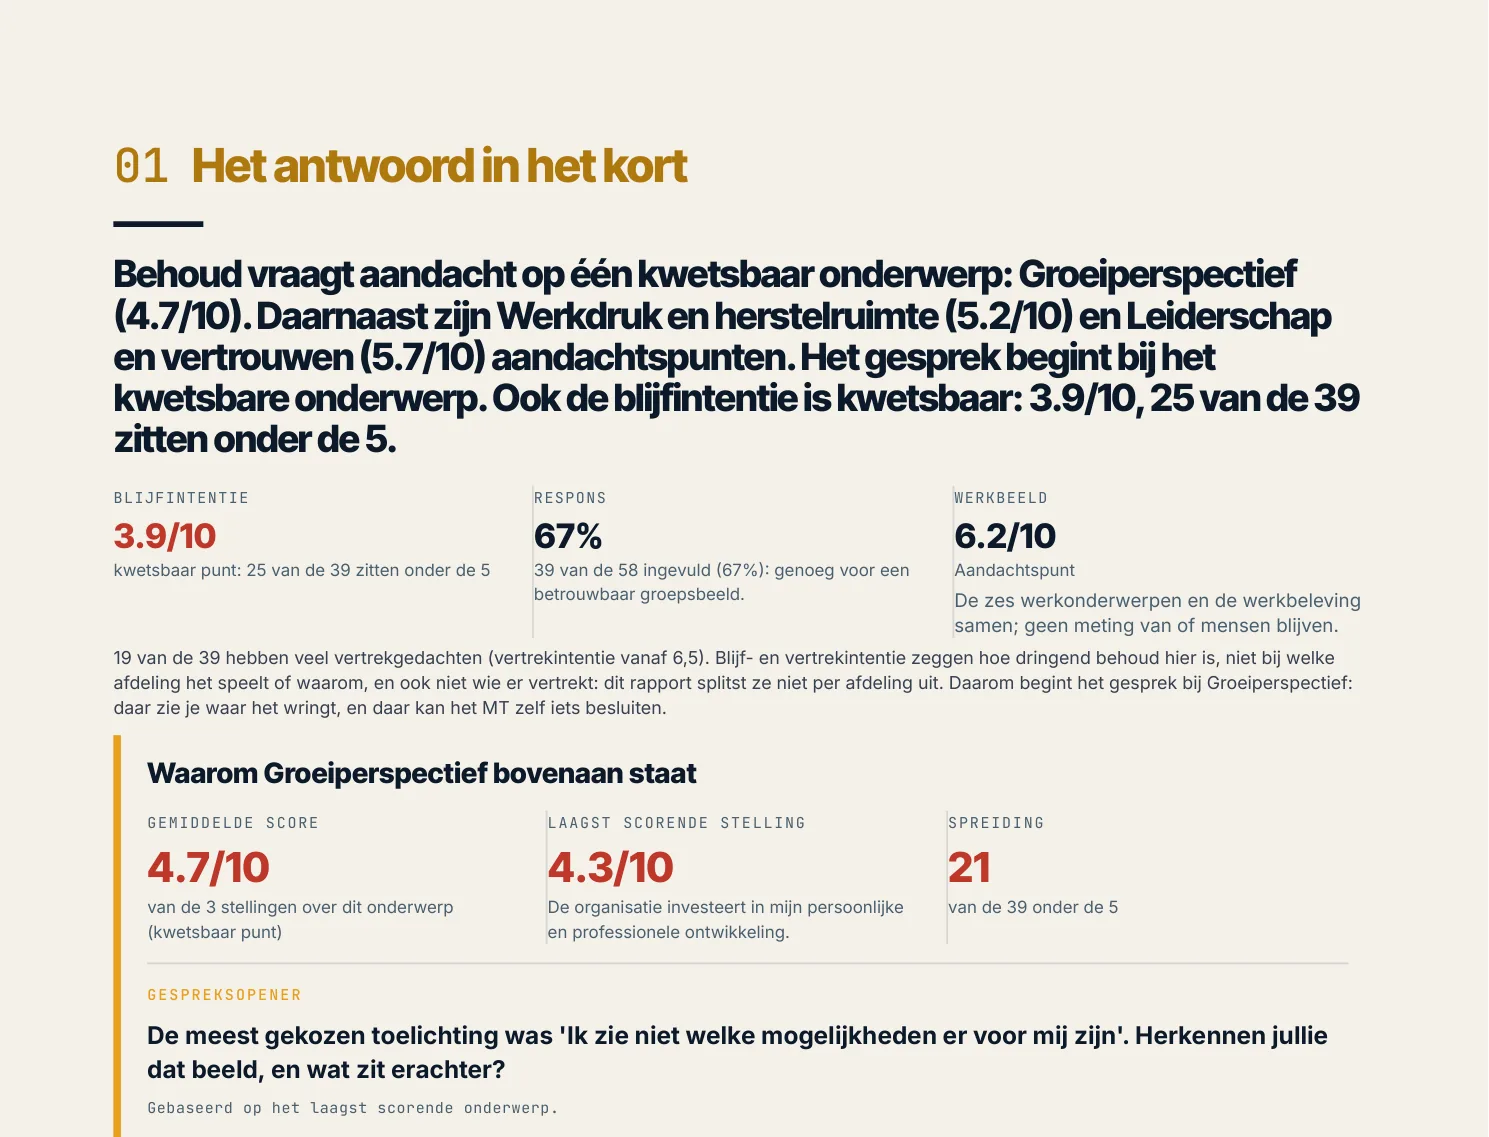
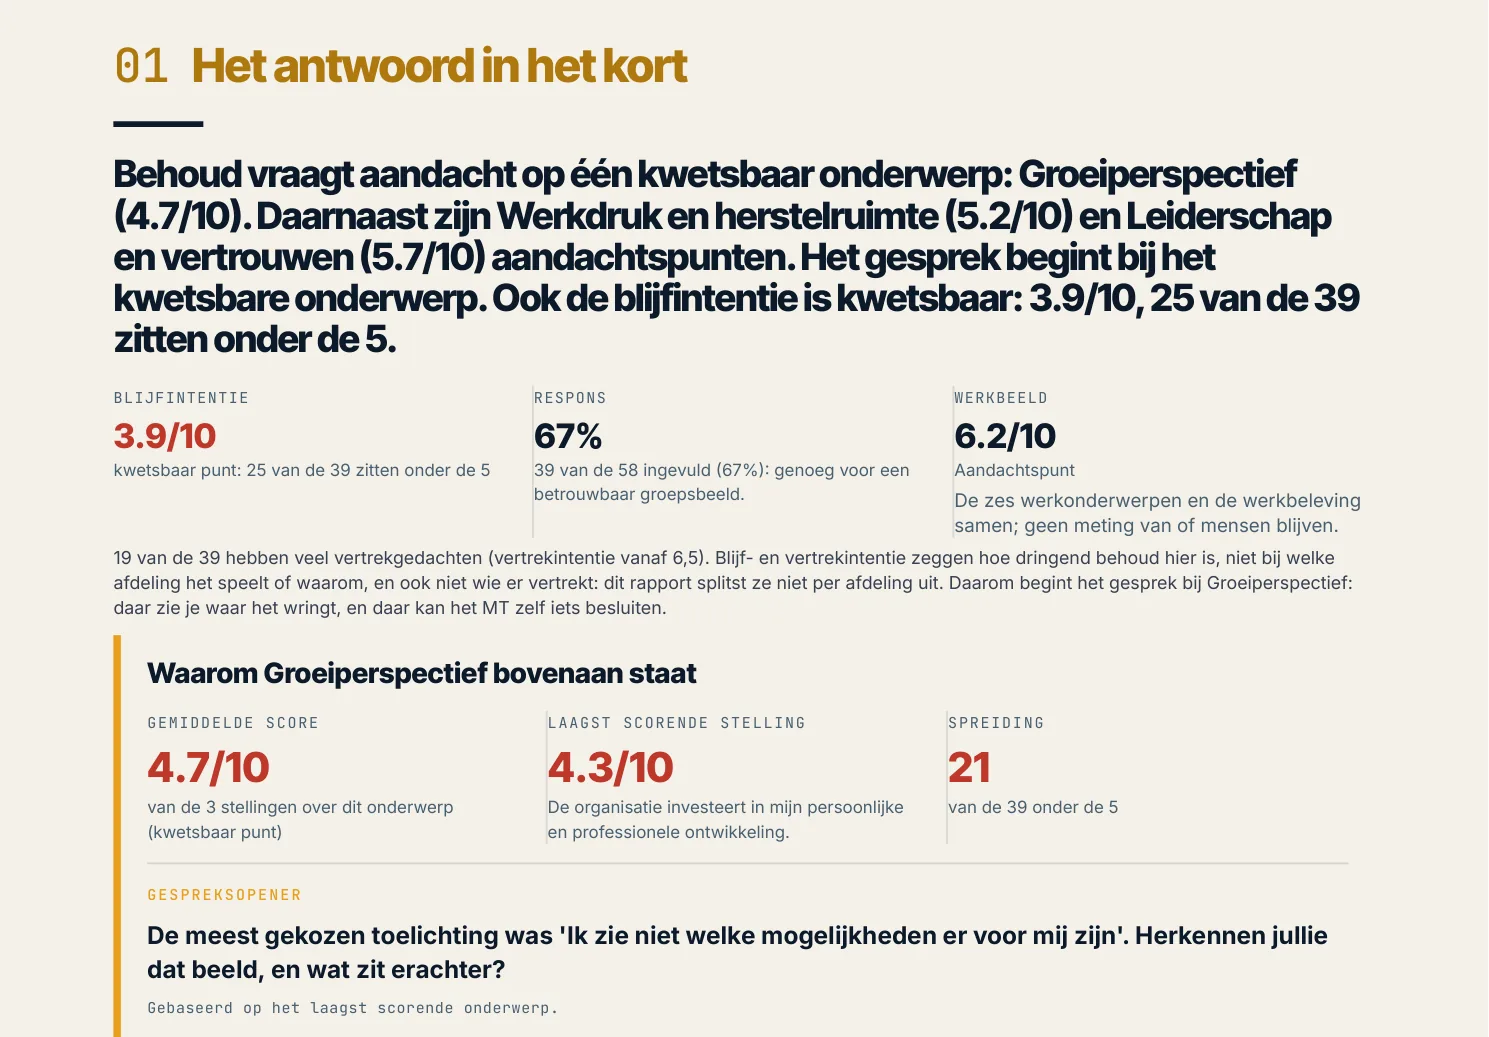
fix(homepage): reviewpunten taak 13b, strakkere knip met Fail Loud, invultijd per scan, kaart 2 goedgekeurde tekst
- scripts/render_hero_p02.py: lege bovenmarge eraf (knip vanaf 40 pt),
  stopt met foutcode en melding op stderr als een tekstblok door de
  boven- of onderknip loopt, als de factor buiten 0,45 tot 0,6 valt of
  als Pillow/WebP ontbreekt (geen stille PNG-terugval); document wordt
  gesloten. Opnieuw gerenderd in het productie-image: 1489x1037 WebP,
  124.824 bytes.
- Hero: width/height 1489x1037, sizes "(max-width: 520px) 100vw,
  480px", label "Voorbeeld" aria-hidden (alt begint er al mee) en
  rechtsboven, omdat de knip nu direct bij de paginakop begint en het
  label linksboven die kop afdekte.
- Invultijd: exit, retention en onboarding expliciet uit SURVEY_MINUTES;
  ontbreekt er een, dan gooit de pagina een fout in plaats van een
  verkeerd bereik.
- Kaart 2: goedgekeurde tekst (39 woorden).

Tests: homepage-polijstronde.test.ts leest de exacte src uit de bron en
controleert precies dat bestand, bewaakt de SuitePreviewSection-grens en
eist de import plus het gebruik van de invultijd in de kaarttekst.
Lockstep aangepast: frontend/lib/homepage-besluit-a.test.ts (vastgepinde
zin van kaart 2 naar de goedgekeurde tekst, commentaar mee).

Changed region(s): [[0.0618, 0.0309, 0.9268, 0.9875]]

diff --git a/frontend/components/marketing/home-page-content.tsx b/frontend/components/marketing/home-page-content.tsx
@@ -117,7 +117,16 @@ const problemSignalPoints = [
 
 // Invultijd uit dezelfde bron als de vragenlijst zelf (SURVEY_MINUTES), zodat de
 // homepage niet iets anders belooft dan de respondent leest.
-const surveyMinutes = Object.values(SURVEY_MINUTES).filter((m): m is number => typeof m === 'number')
+// De drie scans die de homepage aanbiedt worden expliciet genoemd: ontbreekt er
+// een, dan faalt de pagina zichtbaar in plaats van een verkeerd bereik te tonen.
+function surveyMinutesFor(scan: 'exit' | 'retention' | 'onboarding'): number {
+  const minutes = SURVEY_MINUTES[scan]
+  if (typeof minutes !== 'number') {
+    throw new Error(`SURVEY_MINUTES mist de invultijd voor ${scan}`)
+  }
+  return minutes
+}
+const surveyMinutes = [surveyMinutesFor('exit'), surveyMinutesFor('retention'), surveyMinutesFor('onboarding')]
 const minSurveyMinutes = Math.min(...surveyMinutes)
 const maxSurveyMinutes = Math.max(...surveyMinutes)
 
@@ -132,7 +141,7 @@ const managementFlowSteps = [
     step: '2',
     label: 'Begrijpen',
     title: 'Loep levert een rapport met een antwoord',
-    body: 'Een rapport dat laat zien wat laag scoort en waar je begint. Bij Loep Vertrek en Loep Behoud komt daar één ranglijst bij, dit eerst en waarom, plus wat je mensen zelf als reden kozen en wat er volgens hen moet gebeuren.',
+    body: 'Een rapport dat laat zien wat laag scoort en waar je begint. Bij Loep Vertrek en Loep Behoud zie je ook waarom iets bovenaan staat, wat je mensen zelf als reden kozen en wat er volgens hen moet gebeuren.',
   },
   {
     step: '3',
@@ -868,22 +877,25 @@ function HeroSection() {
                     src="/images/voorbeeld-loep-behoud-p02.webp"
                     alt="Voorbeeld van pagina twee uit een Loep Behoud-rapport: de kernzin, het werkbeeld en de cijfers over blijven en vertrekken."
                     width={1489}
-                    height={1137}
-                    sizes="(max-width: 1120px) 100vw, 480px"
+                    height={1037}
+                    sizes="(max-width: 520px) 100vw, 480px"
                     priority
                     style={{ width: '100%', height: 'auto', display: 'block' }}
                   />
+                  {/* Rechtsboven: de afbeelding begint direct bij de paginakop, die
+                      links staat; rechts naast de kop is het vlak leeg. */}
                   <span
+                    aria-hidden
                     style={{
                       background: '#0d1b2a',
                       color: '#f4ece0',
                       fontFamily: bodyFont,
                       fontSize: 10,
                       fontWeight: 700,
-                      left: 0,
                       letterSpacing: '.18em',
                       padding: '7px 11px',
                       position: 'absolute',
+                      right: 0,
                       textTransform: 'uppercase',
                       top: 0,
                     }}

diff --git a/frontend/lib/homepage-polijstronde.test.ts b/frontend/lib/homepage-polijstronde.test.ts
@@ -3,9 +3,16 @@ import { join } from 'node:path'
 import { describe, expect, it } from 'vitest'
 
 const bron = readFileSync(join(__dirname, '..', 'components', 'marketing', 'home-page-content.tsx'), 'utf8')
-const live = bron.slice(0, bron.indexOf('function SuitePreviewSection'))
+const grens = bron.indexOf('function SuitePreviewSection')
+const live = bron.slice(0, grens)
 
 describe('homepage polijstronde (spec par. 7)', () => {
+  it('meet het live deel van de homepage, niet een lege of volledige bron', () => {
+    // Verdwijnt het gearchiveerde blok, dan zou slice(0, -1) stilletjes bijna
+    // alles meten; dan moet deze test de grens opnieuw kiezen.
+    expect(grens).toBeGreaterThan(0)
+  })
+
   it('hero zegt niets meer wat het rapport niet zegt', () => {
     for (const oud of ['veruit het laagst', 'Eerste managementvraag', 'Waardering en erkenning', 'Illustratief voorbeeld']) {
       expect(live).not.toContain(oud)
@@ -13,19 +20,23 @@ describe('homepage polijstronde (spec par. 7)', () => {
   })
 
   it('hero toont de echte rapportafbeelding met label en alt-tekst', () => {
-    expect(live).toContain('/images/voorbeeld-loep-behoud-p02.')
+    const src = live.match(/src="(\/images\/voorbeeld-loep-behoud-p02\.[a-z]+)"/)?.[1]
+    expect(src).toBeTruthy()
     expect(live).toContain('Voorbeeld van pagina twee uit een Loep Behoud-rapport')
     expect(live).toMatch(/>\s*Voorbeeld\s*</)
-    const pad = join(__dirname, '..', 'public', 'images')
-    const bestand = ['voorbeeld-loep-behoud-p02.webp', 'voorbeeld-loep-behoud-p02.png']
-      .map((n) => join(pad, n)).find((p) => { try { return statSync(p).isFile() } catch { return false } })
-    expect(bestand).toBeTruthy()
-    expect(statSync(bestand!).size).toBeLessThan(250 * 1024)
+    // Precies het bestand dat de component laadt, niet een van twee mogelijke.
+    const bestand = join(__dirname, '..', 'public', ...src!.split('/').filter(Boolean))
+    expect(statSync(bestand).isFile()).toBe(true)
+    expect(statSync(bestand).size).toBeLessThan(250 * 1024)
   })
 
   it('invultijd komt uit SURVEY_MINUTES, niet uit vaste tekst', () => {
     expect(live).not.toContain('tien minuten')
-    expect(live).toContain('SURVEY_MINUTES')
+    expect(live).toContain("import { SURVEY_MINUTES } from '@/lib/campaign-setup'")
+    for (const scan of ['exit', 'retention', 'onboarding']) {
+      expect(live).toContain(`surveyMinutesFor('${scan}')`)
+    }
+    expect(live).toContain('in ${minSurveyMinutes} tot ${maxSurveyMinutes} minuten ingevuld')
   })
 
   it('kaartteksten rond 40 woorden', () => {

diff --git a/frontend/lib/homepage-besluit-a.test.ts b/frontend/lib/homepage-besluit-a.test.ts
@@ -48,9 +48,9 @@ describe('homepage na besluit A', () => {
     // Loep Start mist het prioriteringsraster: daar is de rangorde puur de
     // score (backend/report_html.py), dus "je ziet waarom dit bovenaan staat"
     // is voor Loep Start niet waar. Sinds de polijstronde (Taak 13b) hangt de
-    // homepagekaart de ranglijst met het waarom daarom aan de twee scans met
-    // een raster; voor elke scan belooft hij alleen wat laag scoort en waar je begint.
-    expect(bron()).toContain('Bij Loep Vertrek en Loep Behoud komt daar één ranglijst bij, dit eerst en waarom,')
+    // homepagekaart het waarom daarom aan de twee scans met een raster; voor
+    // elke scan belooft hij alleen wat laag scoort en waar je begint.
+    expect(bron()).toContain('Bij Loep Vertrek en Loep Behoud zie je ook waarom iets bovenaan staat,')
     // De ontkenningen dekken ook SuitePreviewSection en suiteFlowPoints. Die
     // staan wel in dit bestand maar hangen niet in de renderboom, dus daar
     // wordt bewust geen zin vastgepind: verdwijnt dat dode blok ooit, dan hoort

diff --git a/scripts/render_hero_p02.py b/scripts/render_hero_p02.py
@@ -6,12 +6,17 @@ net als scripts/render_in_image.py: /repo is de read-only gemounte worktree,
 
 Wat het doet:
   1. rendert docs/examples/voorbeeldrapport_retentiescan.html met WeasyPrint;
-  2. knipt de bovenste KNIP_FACTOR van pagina twee (index 1) met PyMuPDF;
+  2. knipt pagina twee (index 1) van KNIP_BOVEN pt tot KNIP_FACTOR van de
+     paginahoogte met PyMuPDF (de lege bovenmarge gaat eraf, zodat de inhoud
+     op de homepage groter staat);
   3. rendert die knip op SCHAAL en schrijft /out/hero_p02.png;
-  4. zet hem om naar /out/hero_p02.webp (kwaliteit 82) als Pillow er is.
+  4. zet hem om naar /out/hero_p02.webp (kwaliteit 82).
 
-De afbeelding verzint niets: alles komt uit de generator. Kies KNIP_FACTOR
-zo dat de knip na een heel blok valt, nooit door een tekstregel heen.
+Fail Loud: het script stopt met een foutcode (en een melding op stderr) als
+de factor buiten het bereik valt, als een tekstblok door de boven- of
+onderknip loopt, of als Pillow of WebP-ondersteuning ontbreekt. Een half
+afgesneden regel of een stille PNG-terugval komt zo nooit op de homepage.
+De afbeelding verzint niets: alles komt uit de generator.
 Draaien: zie plan 2026-10-09-polijstronde, Taak 13b.
 """
 from __future__ import annotations
@@ -23,40 +28,66 @@ REPO = Path("/repo")
 OUT = Path("/out")
 BRON = REPO / "docs" / "examples" / "voorbeeldrapport_retentiescan.html"
 
-KNIP_FACTOR = float(sys.argv[1]) if len(sys.argv) > 1 else 0.54
+FACTOR_MIN, FACTOR_MAX = 0.45, 0.6
+KNIP_FACTOR = 0.54  # onderknip als deel van de paginahoogte
+KNIP_BOVEN = 40.0   # pt; de eerste tekst (paginakop) begint rond 53 pt
 SCHAAL = 2.5
 
-import pymupdf  # noqa: E402
-from weasyprint import HTML  # noqa: E402
+
+def _fout(melding: str) -> int:
+    print("FOUT: " + melding, file=sys.stderr)
+    return 1
 
 
 def main() -> int:
+    factor = KNIP_FACTOR
+    if len(sys.argv) > 1:
+        try:
+            factor = float(sys.argv[1])
+        except ValueError:
+            return _fout("knipfactor is geen getal: " + repr(sys.argv[1]))
+    if not FACTOR_MIN <= factor <= FACTOR_MAX:
+        return _fout(f"knipfactor {factor} valt buiten {FACTOR_MIN} tot {FACTOR_MAX}")
     if not BRON.exists():
-        print("GEEN BRON: draai eerst generate_voorbeeldrapport.py retention")
-        return 1
+        return _fout("geen bron: draai eerst generate_voorbeeldrapport.py retention")
+
+    try:
+        from PIL import Image, features
+    except ImportError:
+        return _fout("Pillow ontbreekt in het image; geen stille PNG-terugval")
+    if not features.check("webp"):
+        return _fout("Pillow heeft geen WebP-ondersteuning; geen stille PNG-terugval")
+
+    import pymupdf
+    from weasyprint import HTML
+
     OUT.mkdir(parents=True, exist_ok=True)
     pdf = OUT / "hero_p02_bron.pdf"
     HTML(filename=str(BRON)).write_pdf(str(pdf))
 
-    doc = pymupdf.open(str(pdf))
-    page = doc[1]
-    clip = pymupdf.Rect(0, 0, page.rect.width, page.rect.height * KNIP_FACTOR)
-    pix = page.get_pixmap(matrix=pymupdf.Matrix(SCHAAL, SCHAAL), clip=clip, alpha=False)
-    png = OUT / "hero_p02.png"
-    pix.save(str(png))
-    print(f"PNG {png.name} {pix.width}x{pix.height} {png.stat().st_size} bytes")
+    with pymupdf.open(str(pdf)) as doc:
+        page = doc[1]
+        clip = pymupdf.Rect(0, KNIP_BOVEN, page.rect.width, page.rect.height * factor)
 
-    # Tekstblokken met hun onderkant, zodat je ziet waar de knip valt.
-    for x0, y0, x1, y1, tekst, *_ in page.get_text("blocks"):
-        regel = " ".join(tekst.split())[:70]
-        print(f"BLOK y0={y0:6.1f} y1={y1:6.1f} {regel}")
-    print(f"KNIP y={clip.y1:6.1f} van {page.rect.height:6.1f}")
+        doorsneden = []
+        for _x0, y0, _x1, y1, tekst, *_ in page.get_text("blocks"):
+            regel = " ".join(tekst.split())[:70]
+            print(f"BLOK y0={y0:6.1f} y1={y1:6.1f} {regel}")
+            for naam, lijn in (("boven", clip.y0), ("onder", clip.y1)):
+                if y0 < lijn < y1:
+                    doorsneden.append(f"{naam}knip y={lijn:.1f} loopt door blok "
+                                      f"{y0:.1f}-{y1:.1f}: {regel}")
+        print(f"KNIP y={clip.y0:.1f} tot {clip.y1:.1f} van {page.rect.height:.1f}")
+        if doorsneden:
+            for d in doorsneden:
+                print("FOUT: " + d, file=sys.stderr)
+            return 1
 
-    try:
-        from PIL import Image
-    except ImportError:
-        print("GEEN PILLOW: PNG blijft de uitvoer")
-        return 0
+        pix = page.get_pixmap(matrix=pymupdf.Matrix(SCHAAL, SCHAAL), clip=clip, alpha=False)
+        png = OUT / "hero_p02.png"
+        pix.save(str(png))
+        print(f"PNG {png.name} {pix.width}x{pix.height} {png.stat().st_size} bytes")
+
     webp = OUT / "hero_p02.webp"
     with Image.open(png) as img:
         img.save(webp, "WEBP", quality=82, method=6)
